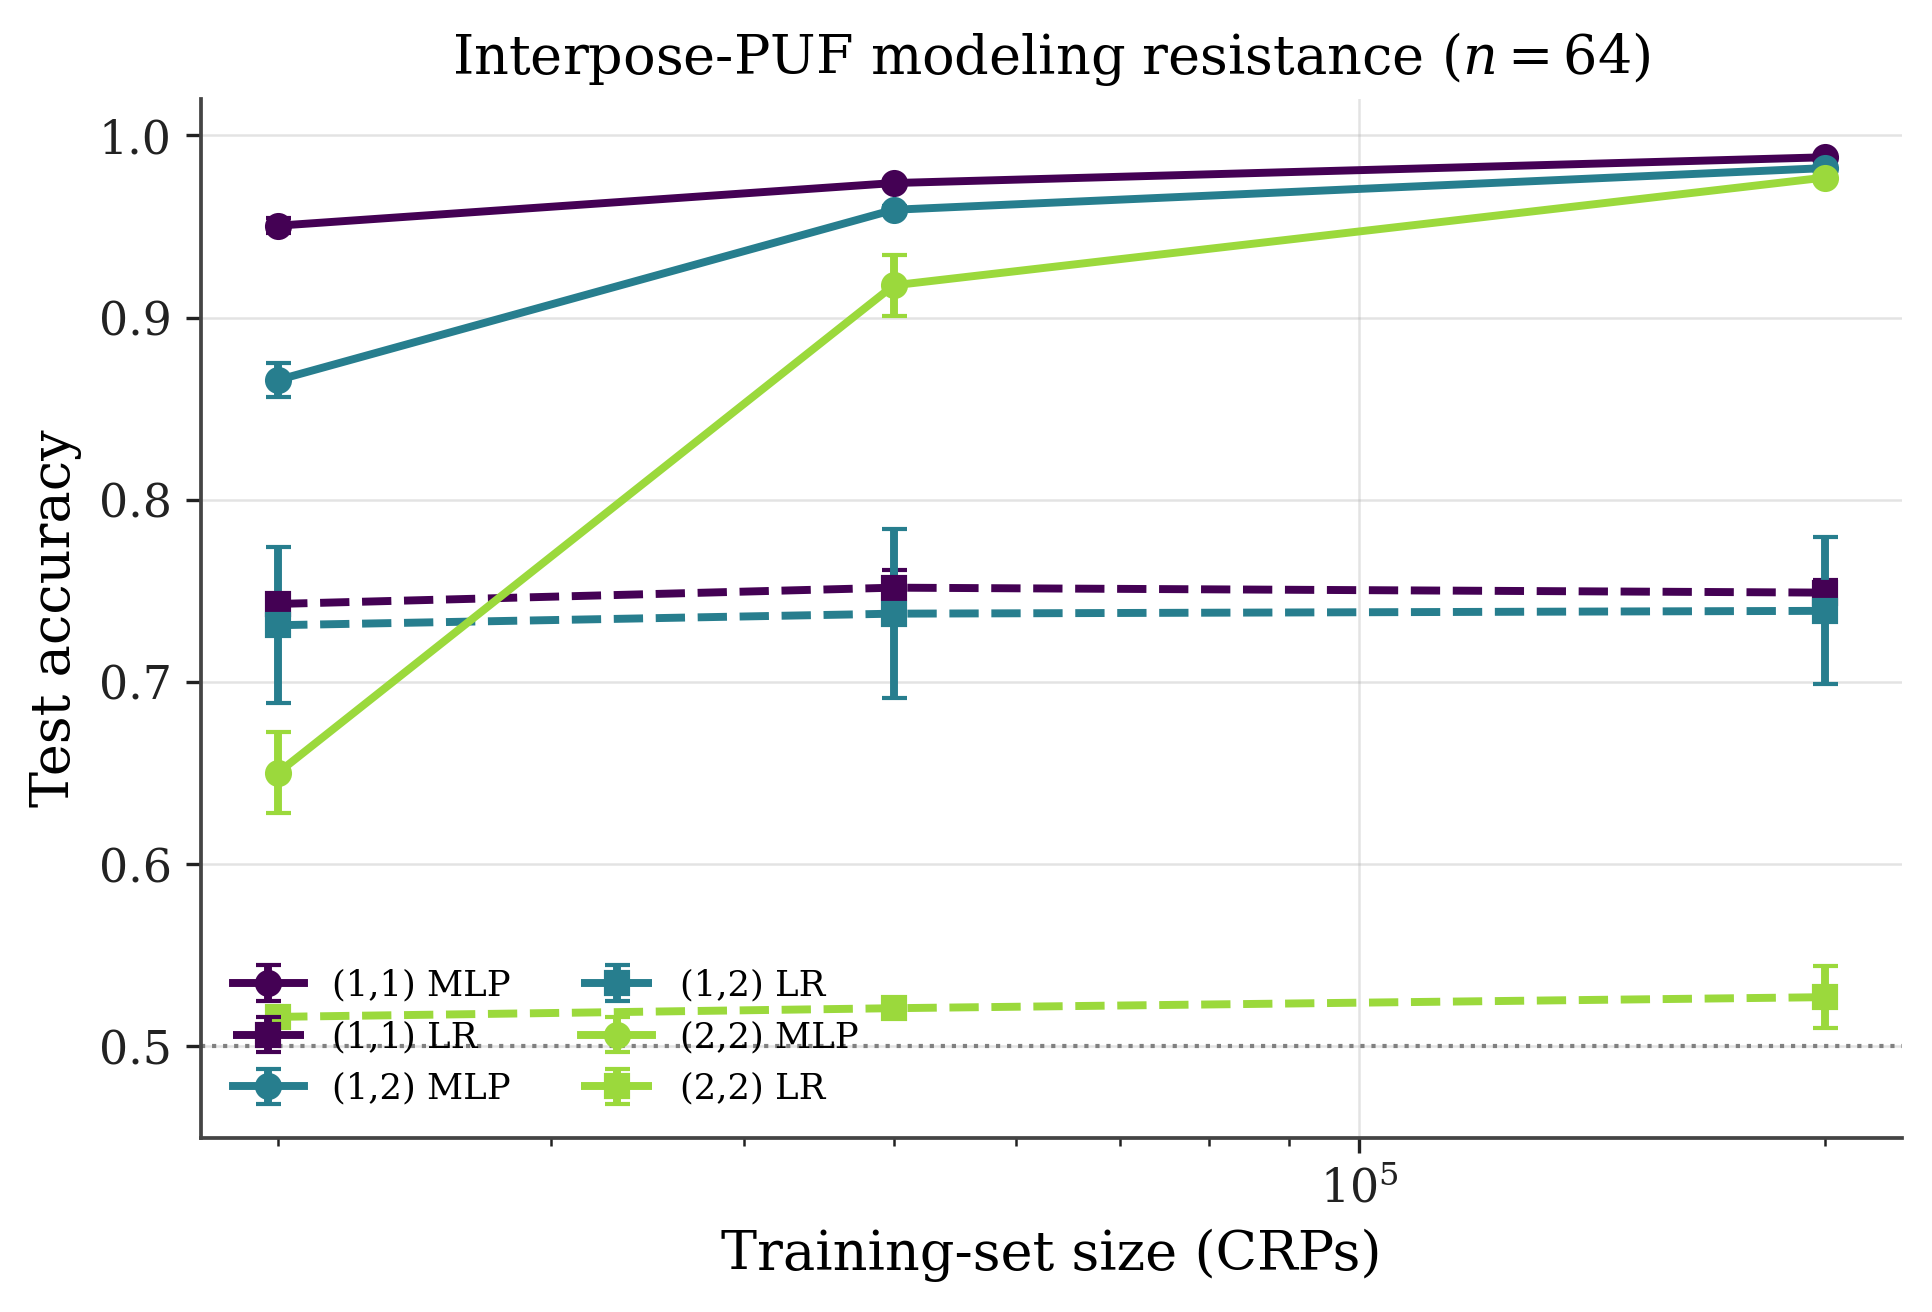
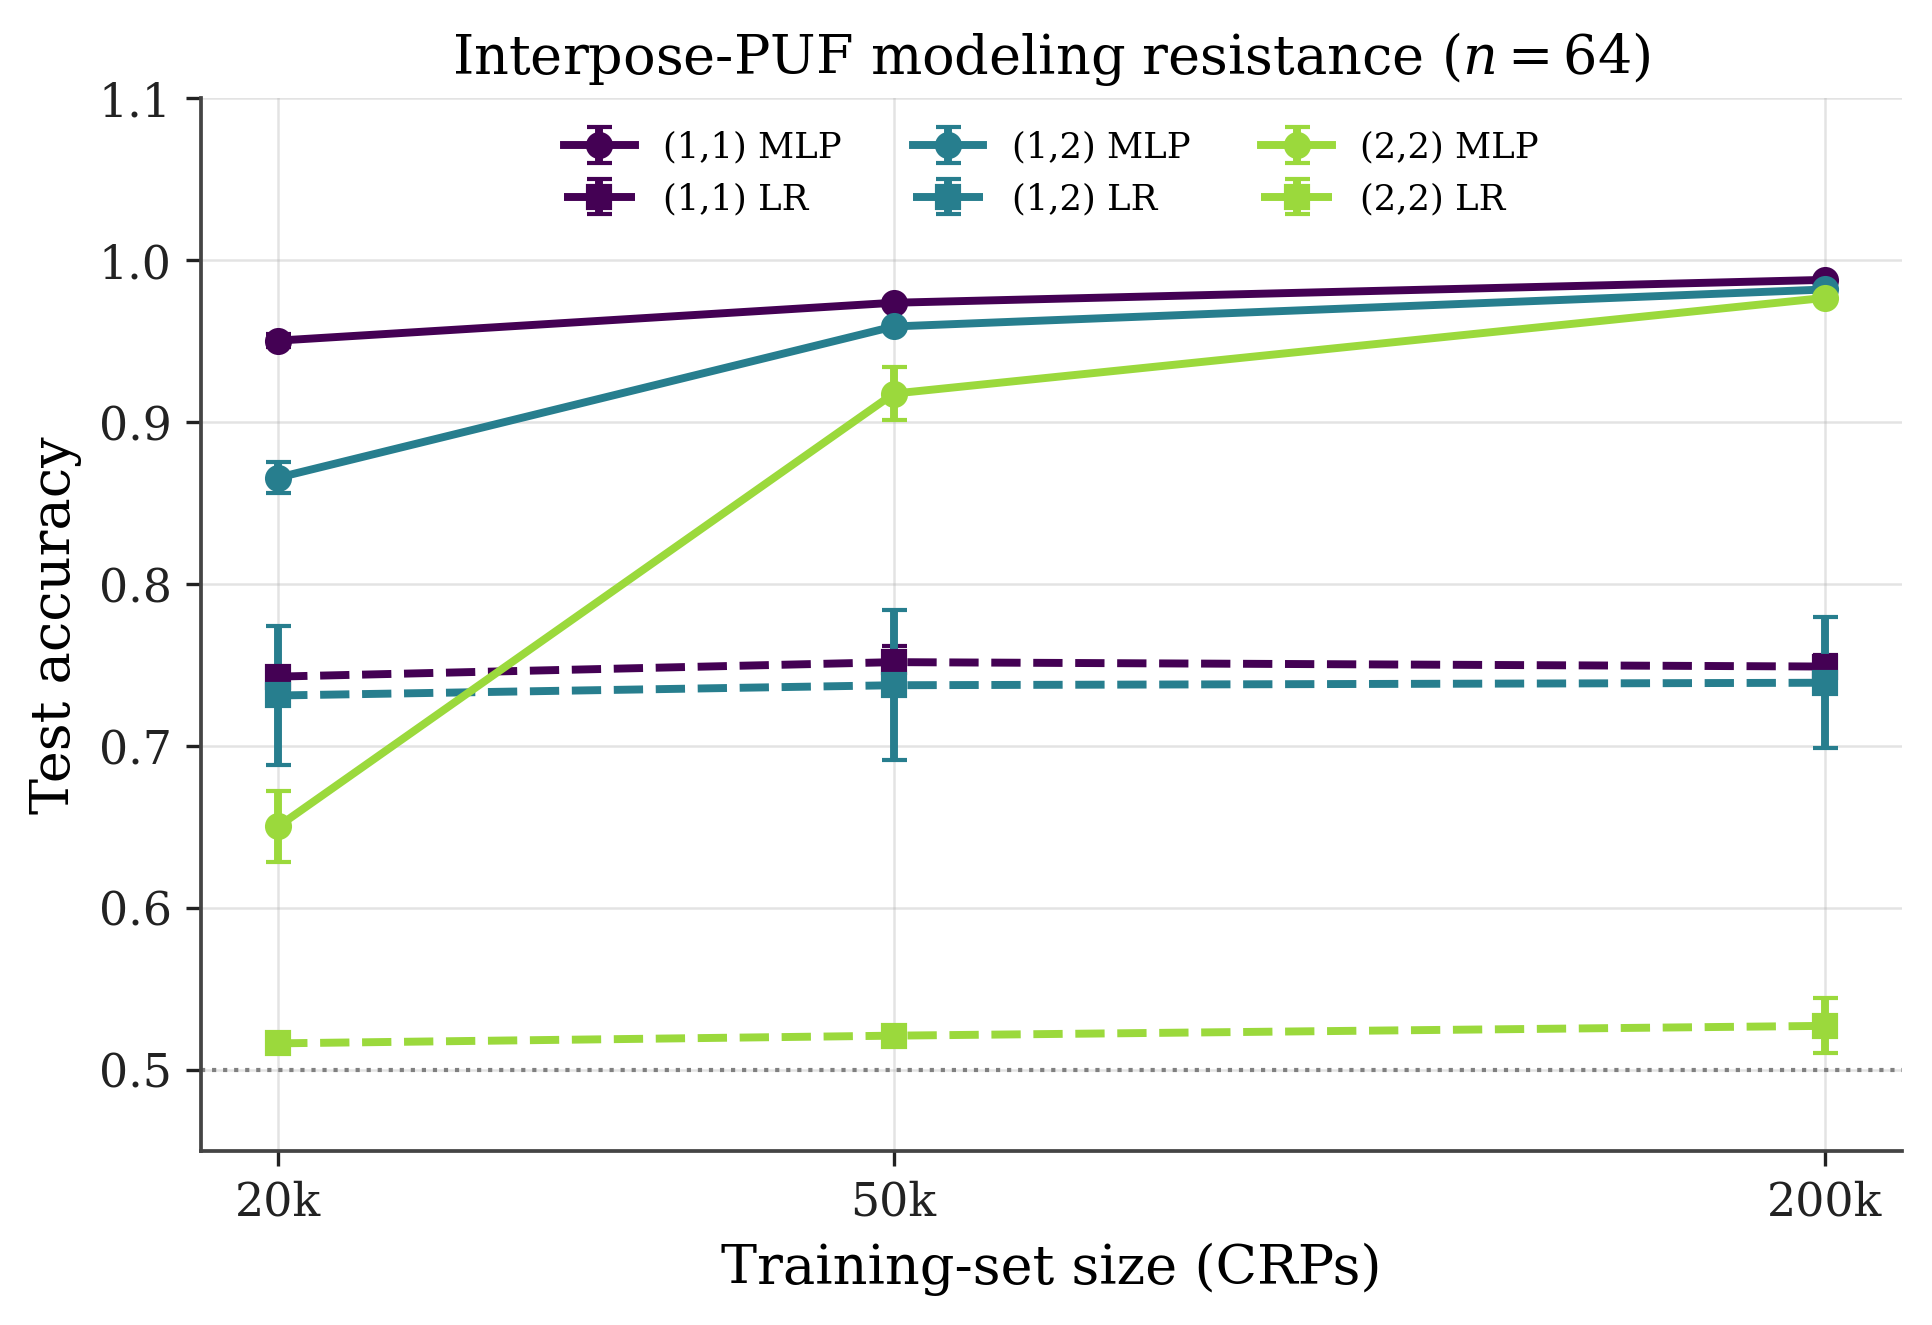
fig_ipuf: move legend clear of the (2,2) LR series, label all training budgets

diff --git a/code/make_figures.py b/code/make_figures.py
@@ -150,8 +150,15 @@ def fig_ipuf():
     ax.set_xlabel("Training-set size (CRPs)")
     ax.set_ylabel("Test accuracy")
     ax.set_title("Interpose-PUF modeling resistance ($n{=}64$)")
-    ax.set_ylim(0.45, 1.02)
-    ax.legend(ncol=2, fontsize=8.5)
+    ax.set_ylim(0.45, 1.10)
+    # budgets are a small discrete set: label them explicitly instead of leaving
+    # a single decade tick, and keep the legend clear of the (2,2) LR series
+    budgets = sorted(ip.train_size.unique())
+    ax.set_xticks(budgets)
+    ax.set_xticklabels([f"{int(b/1000)}k" for b in budgets])
+    ax.minorticks_off()
+    ax.legend(ncol=3, fontsize=8.5, loc="upper center",
+              bbox_to_anchor=(0.5, 1.0), framealpha=1.0, edgecolor="0.7")
     save(fig, "fig_ipuf")
 
 
